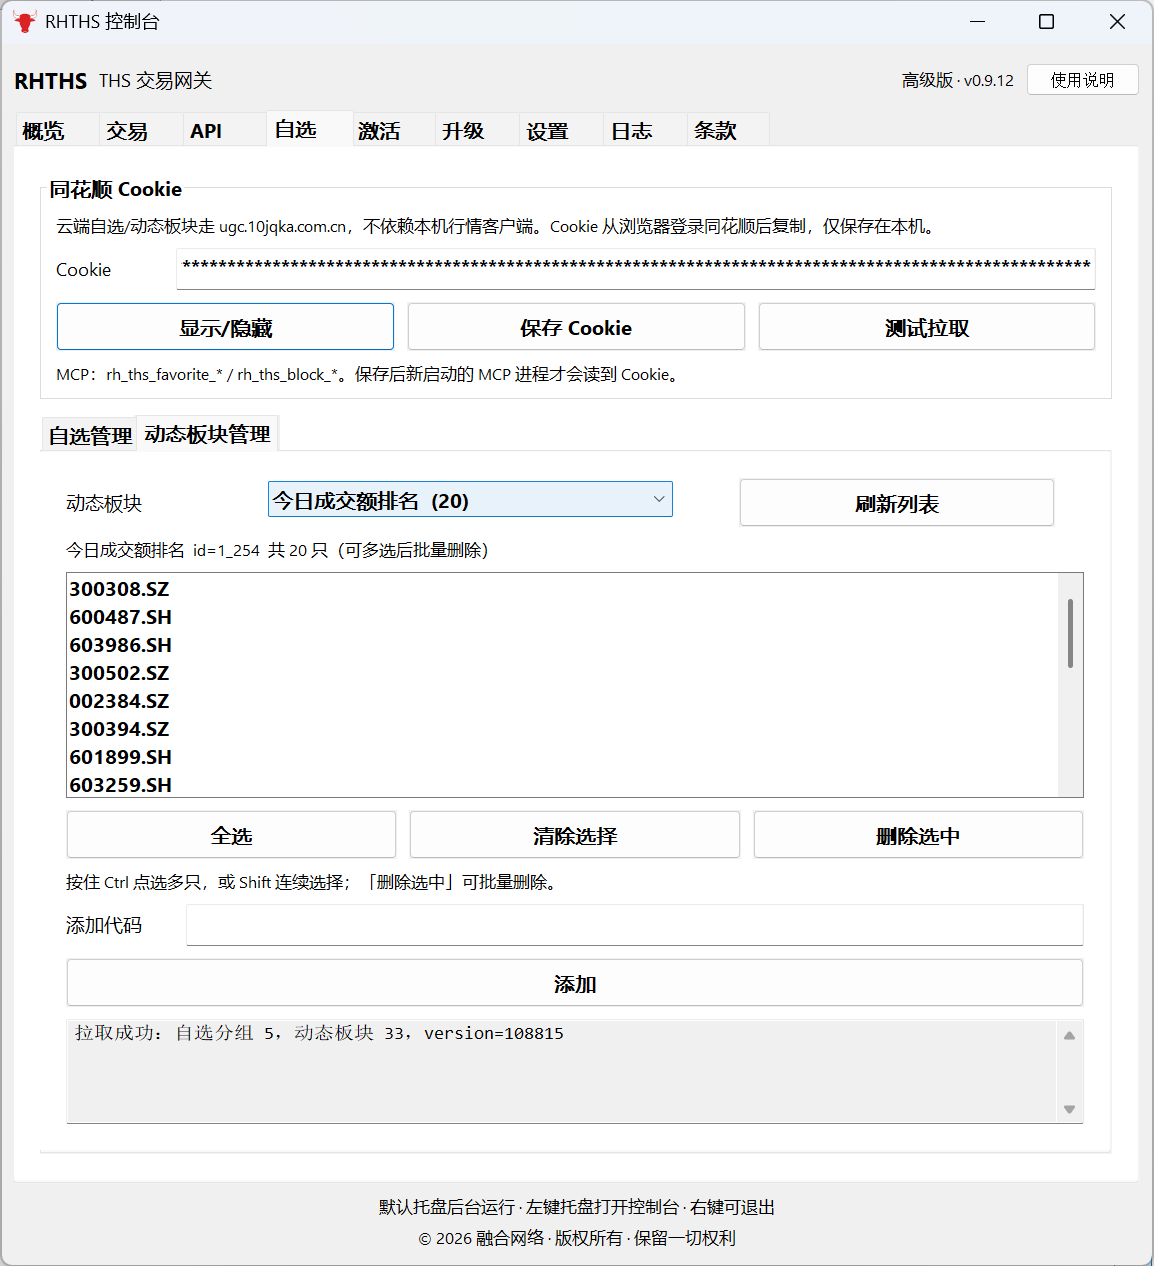
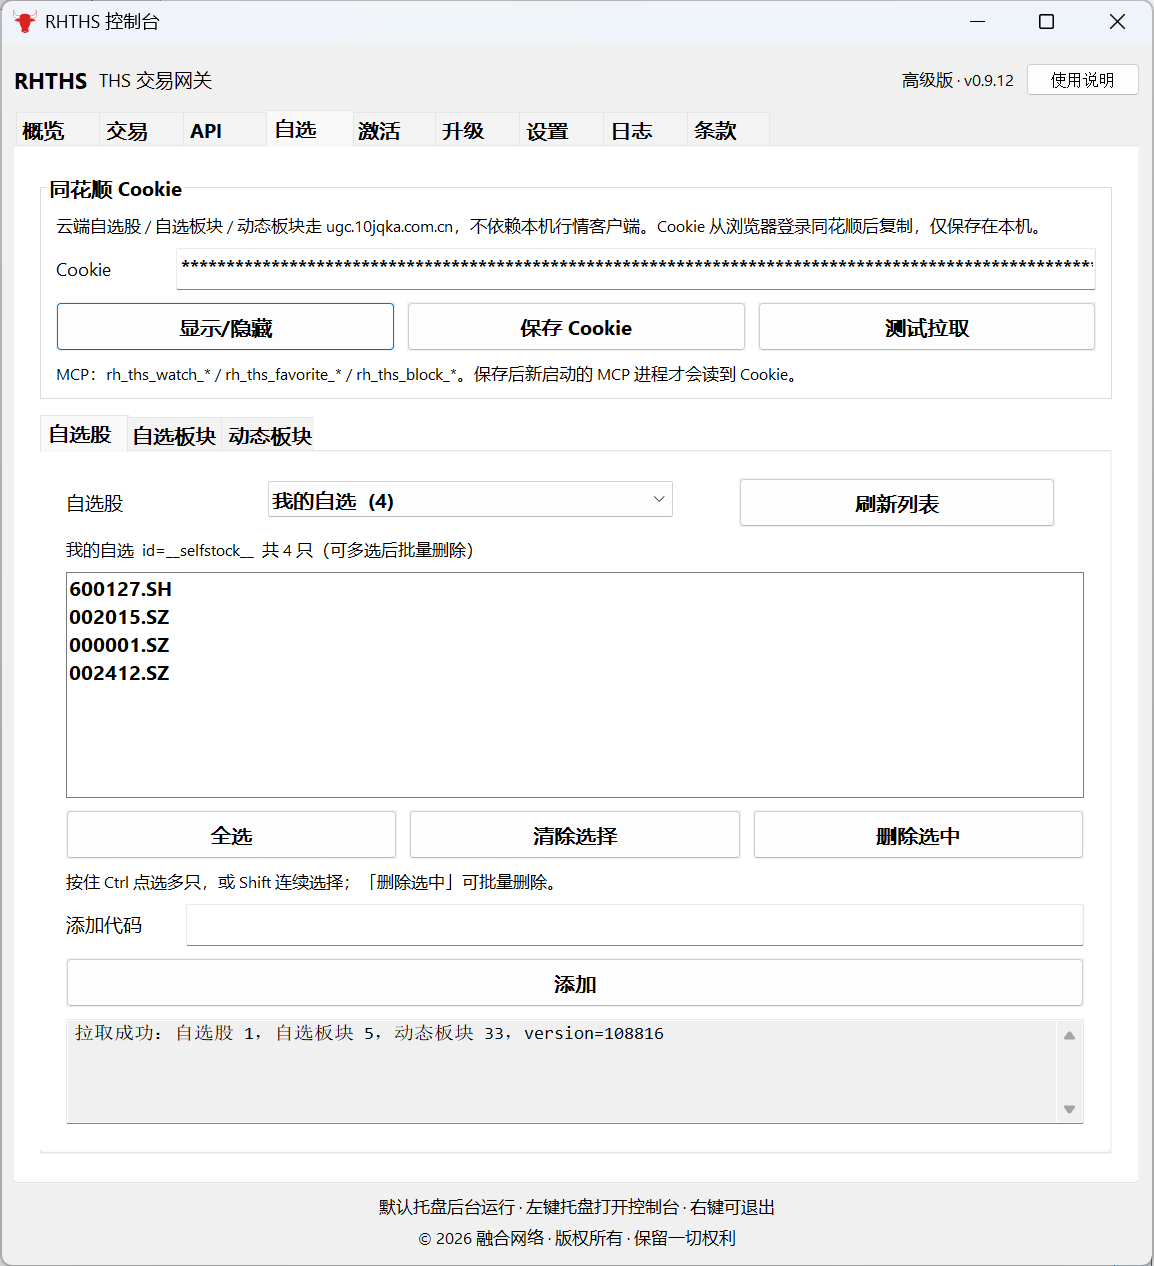
增加自选个股和自选板块功能。

diff --git a/AI交易示例.md b/AI交易示例.md
@@ -20,7 +20,7 @@
 | 「官方数据 Key 通不通？」 | `rh_fuyao_ping` |
 | 「我的同花顺自选股里有哪些？」 | `rh_ths_watch_list` |
 | 「自选板块有哪些？」 | `rh_ths_favorite_list` |
-| 「动态板块「买点」里有哪些票？」 | `rh_ths_block_list`（`group`=`买点`） |
+| 「动态板块「5日线」里有哪些票？」 | `rh_ths_block_list`（`group`=`5日线`） |
 
 ---
 
@@ -173,17 +173,18 @@
 
 ## 五点五、同花顺云端自选股 / 自选板块 / 动态板块
 
-> 需 GUI「自选」页粘贴 Cookie 并保存（会重启 MCP）。不依赖本机 hexin。代码：`600519.SH` 或 6 位代码。`types=0,1,2`。
+> 需 GUI「自选」页粘贴 Cookie 并保存（会重启 MCP）。不依赖本机 hexin。代码：`600519.SH` 或 6 位代码。  
+> **自选股**走 `t.10jqka.com.cn`；**自选板块 / 动态板块**走 `ugc.10jqka.com.cn` selfgroup（`types=0,1`），以 `type` 与 `attrs.question` 区分。
 
 | 你可以对 AI 说 | MCP 工具 | 参数要点 |
 |----------------|----------|----------|
-| 「列出自选股」 | `rh_ths_watch_list` | 通常 `group`=`自选股` |
-| 「把 600519 加到自选股」 | `rh_ths_watch_add` | `group`=`自选股`；`code`=`600519.SH` |
+| 「列出自选股」 | `rh_ths_watch_list` | 返回「我的自选」；`group` 可省略 |
+| 「把 600519 加到自选股」 | `rh_ths_watch_add` | `group`=`我的自选`（可省略）；`code`=`600519.SH` |
 | 「从自选股删掉 600519」 | `rh_ths_watch_delete` | 同上 |
-| 「列出自选板块」 | `rh_ths_favorite_list` | 可选 `group` 只看一个板块 |
-| 「把 000001 加到买点板块」 | `rh_ths_favorite_add` | `group`=`买点`（type=1 自选板块） |
-| 「有哪些动态板块？」 | `rh_ths_block_list` | type=2 |
-| 「把 000001 加到热点动态板块」 | `rh_ths_block_add` | `group`=`热点` |
+| 「列出自选板块」 | `rh_ths_favorite_list` | 可选 `group` 只看一个板块（如 `买点`） |
+| 「把 000001 加到买点板块」 | `rh_ths_favorite_add` | `group`=`买点`（type=0 手动自选板块） |
+| 「有哪些动态板块？」 | `rh_ths_block_list` | type=1 且含问句，如 `5日线`、`今日首板` |
+| 「看看 5日线 动态板块有哪些票」 | `rh_ths_block_list` | `group`=`5日线` |
 
 **示例对话：**
 

diff --git a/MCP使用说明.md b/MCP使用说明.md
@@ -288,13 +288,21 @@ CLI：`rhths fuyao ping | search | get`。
 
 ### 5.7 同花顺云端自选股 / 自选板块 / 动态板块
 
-不依赖本机 hexin。Cookie 在 `rhths-gui` → **「自选」** 页手动粘贴并保存（`%APPDATA%\RHTHS\settings.json` 的 `ths_cookie`，或环境变量 `THS_COOKIE` / `RHTHS_THS_COOKIE`）。保存后需重启 MCP 进程。查询接口 `types=0,1,2`：`0` 自选股、`1` 自选板块、`2` 动态板块。
+不依赖本机 hexin。Cookie 在 `rhths-gui` → **「自选」** 页手动粘贴并保存（`%APPDATA%\RHTHS\settings.json` 的 `ths_cookie`，或环境变量 `THS_COOKIE` / `RHTHS_THS_COOKIE`）。保存后需重启 MCP 进程。
+
+**三层与后端（已按网页抓包 + selfgroup 实测对齐）：**
+
+| 层级 | 数据来源 | 识别方式 |
+|------|----------|----------|
+| **自选股** | `t.10jqka.com.cn/newcircle/group/getSelfStockWithMarket` | 虚拟分组「我的自选」，**不在** selfgroup 里 |
+| **自选板块** | `ugc.10jqka.com.cn` selfgroup `types=0,1` | **type=0**，`attrs.question` 为空（手动分组，如买点、持仓股） |
+| **动态板块** | 同上 selfgroup | **type=1**，`attrs.question` 含问句选股条件（如 5日线、今日首板） |
 
 | 工具 | 用途 |
 |------|------|
-| `rh_ths_watch_list` / `add` / `delete` | 自选股（type=0）。`group` 通常为「自选股」 |
-| `rh_ths_favorite_list` / `add` / `delete` | 自选板块（type=1） |
-| `rh_ths_block_list` / `add` / `delete` | 动态板块（type=2） |
+| `rh_ths_watch_list` / `add` / `delete` | 「我的自选」。`group` 可省略或填「我的自选」 |
+| `rh_ths_favorite_list` / `add` / `delete` | 自选板块（type=0 手动分组）。`group`=板块名或 id，如 `买点` |
+| `rh_ths_block_list` / `add` / `delete` | 动态板块（type=1 问句板块）。`group`=板块名或 id，如 `5日线` |
 
 代码格式：`600519.SH` 或 6 位代码（按首位推断市场）。CLI：`rhths watch` / `favorite` / `block`。
 

diff --git a/软件功能图.md b/软件功能图.md
@@ -75,16 +75,16 @@
 
 ## 2.6 自选 — 自选股 / 自选板块 / 动态板块
 
-在控制台 **「自选」** 页签管理同花顺云端三类列表（`ugc.10jqka.com.cn`，`types=0,1,2`），**不依赖**本机 hexin。Cookie 手动粘贴后保存到本机 `settings.json`（`ths_cookie`），并同步环境变量供 MCP / CLI 使用。
+在控制台 **「自选」** 页签管理同花顺云端三类列表，**不依赖**本机 hexin。Cookie 手动粘贴后保存到本机 `settings.json`（`ths_cookie`），并同步环境变量供 MCP / CLI 使用。
 
 ![自选：Cookie、自选股、自选板块与动态板块](./img/10.png)
 
 | 功能 | 说明 |
 |------|------|
 | **Cookie** | 显示/隐藏、保存、测试拉取；保存后会重启 MCP 使 AI 工具生效 |
-| **自选股** | type=0，通常名为「自选股」；列表多选、全选 / 删除选中、按代码添加 |
-| **自选板块** | type=1 自定义板块 |
-| **动态板块** | type=2 |
+| **自选股** | 「我的自选」；`t.10jqka.com.cn` 网页 API；列表多选、全选 / 删除选中、按代码添加 |
+| **自选板块** | selfgroup **type=0** 手动分组（如买点、持仓股、选股票池） |
+| **动态板块** | selfgroup **type=1** 问句选股（如 5日线、今日首板）；`attrs.question` 非空 |
 | **MCP / CLI** | `rh_ths_watch_*` / `rh_ths_favorite_*` / `rh_ths_block_*`；`rhths watch` / `favorite` / `block` |
 
 详见 [MCP使用说明.md](./MCP使用说明.md) § 5.7 · [CLI使用说明.md](./CLI使用说明.md) · [AI交易示例.md](./AI交易示例.md)。

diff --git a/CLI使用说明.md b/CLI使用说明.md
@@ -257,15 +257,22 @@ rhths fuyao get /api/a-share/calendar/trading-days
 
 Cookie 在 GUI「**自选**」页粘贴保存，或设 `THS_COOKIE` / `RHTHS_THS_COOKIE`。
 
+| 层级 | 后端 API | CLI 子命令 |
+|------|----------|------------|
+| **自选股（我的自选）** | `t.10jqka.com.cn` 网页接口 `getSelfStockWithMarket` / `modifySelfStock` | `rhths watch` |
+| **自选板块** | `ugc.10jqka.com.cn` selfgroup，`types=0,1` 中 **type=0** 且无问句（如：买点、持仓股） | `rhths favorite` |
+| **动态板块** | 同上 selfgroup 中 **type=1** 且 `attrs.question` 有问句（如：5日线、今日首板） | `rhths block` |
+
 ```powershell
 rhths watch list
-rhths watch show 自选股
-rhths watch add 自选股 600519.SH
-rhths watch delete 自选股 600519.SH
+rhths watch show 我的自选
+rhths watch add 我的自选 600519.SH
+rhths watch delete 我的自选 600519.SH
 rhths favorite list
+rhths favorite show 买点
 rhths favorite add 买点 000001.SZ
 rhths block list
-rhths block add 热点 300750
+rhths block show 5日线
 ```
 
 对应 MCP：`rh_ths_watch_*`、`rh_ths_favorite_*`、`rh_ths_block_*`。说明见 [MCP使用说明.md](./MCP使用说明.md) § 5.7。

diff --git a/SKILL.md b/SKILL.md
@@ -95,7 +95,7 @@ Templates: [mcp.server.rhths-trade.json](./mcp.server.rhths-trade.json) · Full 
 | Py dispatch | `rh_py_call` | `rhths py call --action …` |
 | Quote / K / wencai | `rh_market_*` | `rhths market …` |
 | Cloud finance / special（fuyao） | `rh_fuyao_*` | `rhths fuyao ping` / `search` / `get`；全量见 [fuyao-routing.md](./fuyao-routing.md) |
-| Cloud watchlist / boards | `rh_ths_watch_*` / `rh_ths_favorite_*` / `rh_ths_block_*` | `rhths watch` / `favorite` / `block`；GUI **自选** tab Cookie |
+| Cloud watchlist / boards | `rh_ths_watch_*`（我的自选，`t.10jqka.com.cn`）/ `rh_ths_favorite_*`（type=0 手动板块）/ `rh_ths_block_*`（type=1 问句板块） | `rhths watch` / `favorite` / `block`；GUI **自选** tab Cookie |
 | Autotrading review | `rh_autotrading_*` | `rhths autotrading …` |
 | Indicator | `rh_indicator_calc` | `rhths indicator calc CODE MACD` |
 
